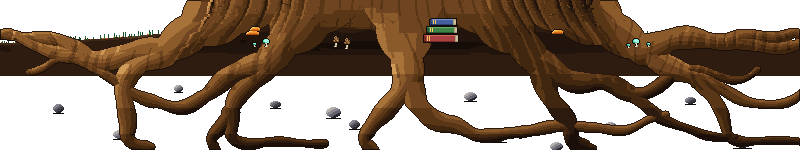
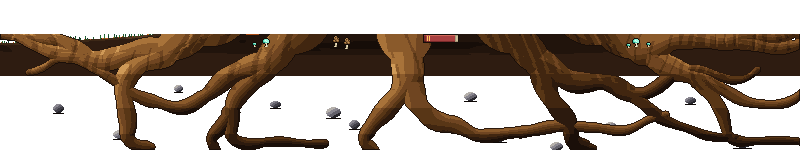
Home: new tree base drawn with ChatGPT; bark grooves now flow down into root buttresses (replaces the flat flare ramps and the hard line at the trunk bottom)
Claude-Session: https://claude.ai/code/session_01TBSkio7k4jk7kM2MR7UMZN

Changed region(s): [[0.1875, 0.0, 1.0, 0.24], [0.0, 0.1867, 0.0938, 0.24]]

diff --git a/index.html b/index.html
@@ -534,7 +534,7 @@ html.nomo .lf, html.nomo .ff, html.nomo .rb-beetle { display: none; }
 /* the wide root flare must never make the page scroll sideways */
 html, body { overflow-x: clip; }
 /* trunk flares smoothly into the root ledge (no flat step where bark meets roots) */
-.tk::after { content: ""; position: absolute; left: 50%; bottom: calc(150px * var(--s)); width: calc(800px * var(--tx)); height: calc(30px * var(--s)); margin-left: calc(-400px * var(--tx)); background: url(img/t_flare.png) 0 0 / 100% 100% no-repeat; image-rendering: pixelated; pointer-events: none; }
+.tk::after { content: ""; position: absolute; left: 50%; bottom: calc(106px * var(--s)); width: calc(652px * var(--tx)); height: calc(130px * var(--s)); margin-left: calc(-326px * var(--tx)); background: url(img/t_base.png) 0 0 / 100% 100% no-repeat; image-rendering: pixelated; pointer-events: none; }
 .fd { left: calc(50% - 20px * var(--tx)); }
 .gmini { left: calc(50% + 76px * var(--tx)); }
 .rb-mole { left: calc(50% - 152px * var(--tx)); }
